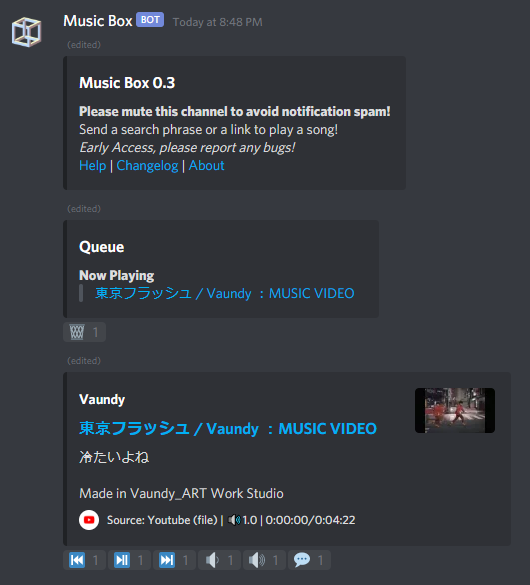
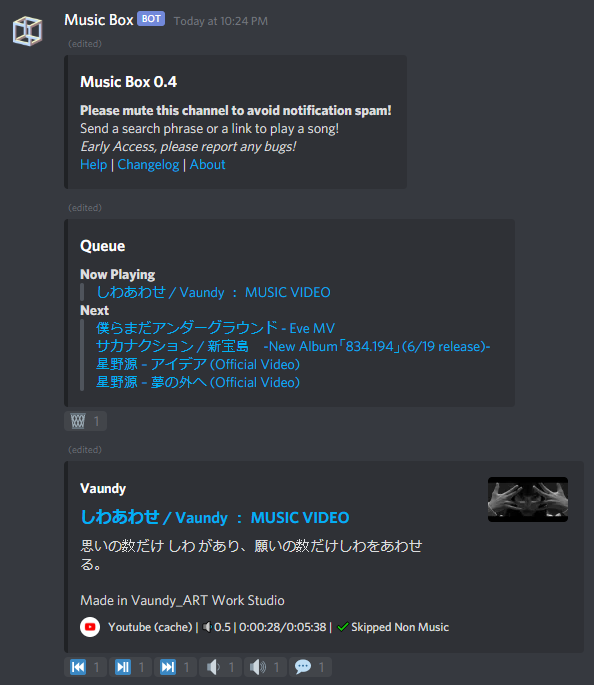
FEATURE: Skip non music sections

diff --git a/src/music/player.py b/src/music/player.py
@@ -50,6 +50,7 @@ class Player:
         self.last_voice_channel = None
         self.timeline = timedelta(seconds=0)
         self.paused = True
+        self.ms_displayed = 0
 
         self.footer = {
             'icon_url': None,
@@ -57,7 +58,8 @@ class Player:
             'source': None,
             'track': None,
             'volume': self.get_volume(),
-            'timeline': self.get_timeline()
+            'timeline': self.get_timeline(),
+            'sponsorblock': None
             }
     
     async def setup(self):
@@ -131,9 +133,9 @@ class Player:
         if music_source:
             music_source.reset()
             if music_source.resolved:
-                asyncio.run_coroutine_threadsafe(self.update_embed_from_ytdict(music_source.info, footer='Source: Youtube (cache)'), self.connected_client.loop)
+                asyncio.run_coroutine_threadsafe(self.update_embed_from_ytdict(music_source.info, footer='Youtube (cache)'), self.connected_client.loop)
             else:
-                asyncio.run_coroutine_threadsafe(self.update_embed_from_ytdict(music_source.info, footer='Source: Youtube'), self.connected_client.loop)
+                asyncio.run_coroutine_threadsafe(self.update_embed_from_ytdict(music_source.info, footer='Youtube'), self.connected_client.loop)
             
             if self.connected_client:
                 if self.connected_client.is_connected():
@@ -160,7 +162,7 @@ class Player:
         if music_source:
             music_source.reset()
 
-            footer_text = 'Source: Youtube'
+            footer_text = 'Youtube'
             if music_source.resolved:
                 footer_text += ' (cache)'
             asyncio.run_coroutine_threadsafe(self.update_embed_from_ytdict(music_source.info, footer=footer_text), self.connected_client.loop)
@@ -241,9 +243,17 @@ class Player:
             except IndexError:
                 pass
 
-    def on_read(self, ms):
+    def on_read(self, ms, non_music):
         self.timeline = timedelta(milliseconds=ms)
-        if ms % 14000 == 0:
+        if non_music:
+            self.add_to_footer(sponsorblock='✔Skipped Non Music')
+            self.ms_displayed = 14000
+        if self.ms_displayed > 0:
+            self.ms_displayed -= 20
+        if (ms % 14000 == 0 and not non_music) or self.ms_displayed == 13960: # 13960 represents the point where ms_displayed starts decrementing
+            if self.ms_displayed == 0:
+                self.footer['sponsorblock'] = None
+                self.ms_displayed = -1 # make negative to avoid line above assignment multiple times
             self.update_footer_text()
             asyncio.run_coroutine_threadsafe(self.ChatEmbed.update(), self.connected_client.loop)
         pass
@@ -264,7 +274,7 @@ class Player:
                         video_info = ydl.extract_info(link, download=False)
                         source = video_info['formats'][0]['url']
 
-                        raw_audio_source: AudioSource = discord.FFmpegPCMAudio(executable=FFMPEG_PATH, source=source, **self.FFMPEG_OPTIONS)
+                        raw_audio_source = discord.FFmpegPCMAudio(executable=FFMPEG_PATH, source=source, **self.FFMPEG_OPTIONS)
                         audio = MusicSource(raw_audio_source, info = video_info, volume= self.volume/100)
                         self.playlist.add(audio)
                         self.paused = False
@@ -273,8 +283,8 @@ class Player:
                             self.next()
                         
                         @audio.event
-                        def on_read(ms):
-                            self.on_read(ms)
+                        def on_read(ms, non_music):
+                            self.on_read(ms, non_music)
                         
                         # Determine if video is cacheable
                         if not video_info['is_live']:
@@ -288,7 +298,7 @@ class Player:
                             @audio.event
                             def on_resolve(info, path):
                                 if(self.playlist.current().info == info): # TODO: fix if client skips song/video before finished downloading, current() will be None
-                                    self.add_to_footer(source= 'Source: Youtube (file)', icon_url=YOUTUBE_ICON)
+                                    self.add_to_footer(source= 'Youtube (file)', icon_url=YOUTUBE_ICON)
                                     asyncio.run_coroutine_threadsafe(self.messenger.gui['player'].update(), self.connected_client.loop)
                             
         else:
@@ -325,7 +335,7 @@ class Player:
             else:
                 self.connected_client.play(source = MusicSource(audio), after=self.on_finished)
 
-    async def update_embed_from_ytdict(self, info: dict, footer = 'Source: Youtube'):
+    async def update_embed_from_ytdict(self, info: dict, footer = 'Youtube'):
         self.description = info['description']
         list_description = info['description'].splitlines()
 
@@ -341,7 +351,7 @@ class Player:
 
     ########### FOOTER ############
 
-    def add_to_footer(self, *, paused = None, icon_url=None, source = None, track=None, volume=None, timeline=None):
+    def add_to_footer(self, *, paused = None, icon_url=None, source = None, track=None, volume=None, timeline=None, sponsorblock = None):
         """Add info to footer and updates the footer in ChatEmbed. Does not send the ChatEmbed."""
         if (paused): self.footer['paused'] = paused
         if (icon_url): self.footer['icon_url'] = icon_url
@@ -349,6 +359,7 @@ class Player:
         if (track): self.footer['track'] = track
         if (volume): self.footer['volume'] = volume
         if (timeline): self.footer['timeline'] = timeline
+        if (sponsorblock): self.footer['sponsorblock'] = sponsorblock
 
         self.update_footer_text()
     
@@ -378,7 +389,8 @@ class Player:
             'source': None,
             'track': None,
             'volume': self.get_volume(),
-            'timeline': self.get_timeline()
+            'timeline': self.get_timeline(),
+            'sponsorblock': None
         }
         self.ChatEmbed.embed.set_footer()
     

diff --git a/src/music/element/MusicSource.py b/src/music/element/MusicSource.py
@@ -7,6 +7,8 @@ import youtube_dl
 from src.constants import *
 import discord
 from src.music.element.cache import Cache
+import requests
+from datetime import timedelta
 
 class MusicSource(AudioSource):
     """Transforms a previous :class:`AudioSource` to have volume controls.
@@ -32,7 +34,7 @@ class MusicSource(AudioSource):
         The audio source is opus encoded.
     """
 
-    def __init__(self, original, info: dict, volume=1.0, resolved = False):
+    def __init__(self, original, info: dict, volume=1.0, resolved = False, sponsor_segments = [], skip_non_music = True):
         if not isinstance(original, AudioSource):
             raise TypeError('expected AudioSource not {0.__class__.__name__}.'.format(original))
 
@@ -44,6 +46,8 @@ class MusicSource(AudioSource):
 
         self.amount_read = 0
         self.info: dict= info
+        self.skip_non_music = skip_non_music
+        self.sponsor_segments: list = sponsor_segments
         self.resolved: bool = resolved
         self.temp = False
         self.file_path = None
@@ -70,11 +74,27 @@ class MusicSource(AudioSource):
                 logging.error(e)
 
     def read(self):
-        self.amount_read += 20
-        self.on_read(self.amount_read)
 
+        if self.skip_non_music:
+            while self.in_non_music():
+                self.amount_read += 20
+                ret = self.original.read()
+                self.on_read(self.amount_read, True)
+
+        self.amount_read += 20
         ret = self.original.read()
+        self.on_read(self.amount_read, False)
         return audioop.mul(ret, 2, min(self._volume, 2.0))
+    
+    def in_non_music(self) -> bool:
+        current_time = timedelta(milliseconds=self.amount_read)
+        for segment_response in self.sponsor_segments:
+            segment_begin = timedelta(seconds = segment_response['segment'][0])
+            segment_end = timedelta(seconds = segment_response['segment'][1])
+            if segment_begin <= current_time and current_time < segment_end:
+                return True
+
+        return False
 
     def reset(self):
         """Set the current audiosource back to 0:00"""
@@ -88,7 +108,11 @@ class MusicSource(AudioSource):
                 self.original: AudioSource = discord.FFmpegPCMAudio(executable=FFMPEG_PATH, source=self.info['formats'][0]['url'], **custom_options)
 
     def resolve(self, cache=True):
-        """Downloads song and sets it as the audiosource"""
+        """Downloads song and sets it as the audiosource. Also finds non_music sections of the song if skip_non_music is true."""
+        if self.skip_non_music:
+            if not self.sponsor_segments:
+                self.sponsor_segments = requests.get(SPONSORBLOCK_MUSIC_API.format(self.info['id'])).json() # TODO ERROR HANDLING
+
         custom_opts = {
             'format': 'bestaudio',
             'writesubtitles': True,
@@ -97,14 +121,14 @@ class MusicSource(AudioSource):
             'progress_hooks': [self.on_download_state],
         }
         if cache:
-            custom_opts['outtmpl'] = os.path.join(DOWNLOAD_PATH, '%(title)s-%(id)s.%(ext)s')
-            with youtube_dl.YoutubeDL(custom_opts) as ydl:
-                ydl.process_ie_result(self.info, download=True)
+            path = DOWNLOAD_PATH
+
         else:
+            path = TEMP_PATH
             self.temp = True
-            custom_opts['outtmpl'] = os.path.join(TEMP_PATH, '%(title)s-%(id)s.%(ext)s')
-            with youtube_dl.YoutubeDL(custom_opts) as ydl:
-                ydl.process_ie_result(self.info, download=True)
+        custom_opts['outtmpl'] = os.path.join(path, '%(title)s-%(id)s.%(ext)s')
+        with youtube_dl.YoutubeDL(custom_opts) as ydl:
+            ydl.process_ie_result(self.info, download=True)
 
     def on_download_state(self, d):
         if d['status'] == 'finished':
@@ -135,7 +159,7 @@ class MusicSource(AudioSource):
         logging.debug('%s has successfully been registered as an event', event.__name__)
         return event
     
-    def on_read(self, ms):
+    def on_read(self, ms, non_music):
         """A placeholder event function intended to be overwritten"""
         pass
 

diff --git a/src/parser.py b/src/parser.py
@@ -5,6 +5,7 @@ from typing import List
 from src.music.player import Player
 from src.profile import Profile
 from youtube_search import YoutubeSearch
+from ytmusicapi import YTMusic
 
 async def message(message: discord.Message, profile: Profile):
     
@@ -17,6 +18,9 @@ async def message(message: discord.Message, profile: Profile):
         youtube_id = match[0]
         await play_ytid(youtube_id, message, profile)
     else:
+        # ytmusic = YTMusic()
+        # results = ytmusic.search(query = message.content, limit = 1)
+        # if results: await play_ytid(results[0]['videoId'], message, profile)
         results = YoutubeSearch(message.content, max_results=1).to_dict()
         if results:
             await play_ytid(results[0]['id'], message, profile)

diff --git a/main.py b/main.py
@@ -82,7 +82,7 @@ async def on_message(message):
             if profile.messenger.command_channel == message.channel:
                 logging.info('Received play from {0.name}'.format(message.author))
                 await message.delete()
-                await src.parser.play_ytid('SIuF37EWaLU', message, profile)
+                await src.parser.play_ytid('JwmGruvGt_I', message, profile)
                 break
         if profile.messenger.command_channel == message.channel:
             await message.delete()

diff --git a/src/constants.py b/src/constants.py
@@ -8,6 +8,7 @@ VERSION = '0.4'
 YOUTUBE_ICON = 'https://yt3.ggpht.com/a/AATXAJxHHP_h8bUovc1qC4c07sVXxVbp3gwDEg-iq8gbFQ=s100-c-k-c0xffffffff-no-rj-mo'
 USAGE_TEXT = 'Send a search phrase or a link to play a song!'
 CONFIG_PATH = 'config.ini'
+SPONSORBLOCK_MUSIC_API = 'https://sponsor.ajay.app/api/skipSegments?videoID={0}&category=music_offtopic'
 __config = configparser.ConfigParser()
 
 def generate_config():

diff --git a/README.md b/README.md
@@ -1,6 +1,8 @@
 # Music Box
 Music Box is a discord streaming bot designed to use no commands.
 
+Uses SponsorBlock data licensed used under CC BY-NC-SA 4.0. More details: https://sponsor.ajay.app/
+
 **Features:**
 
 Playing back from Youtube links, livestreams
